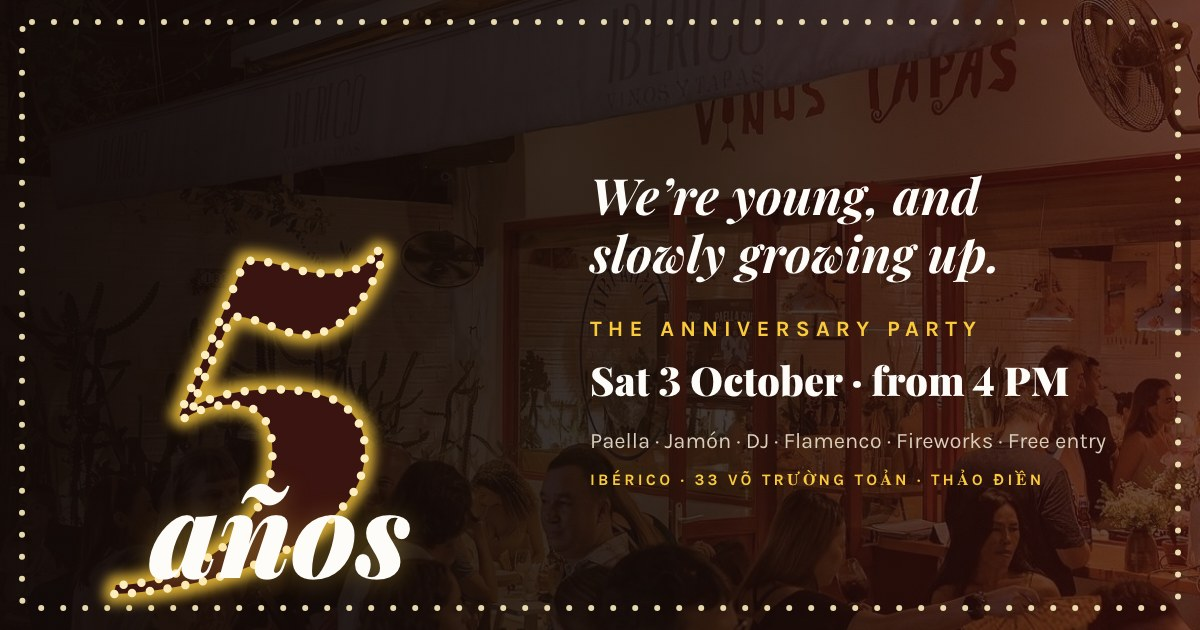
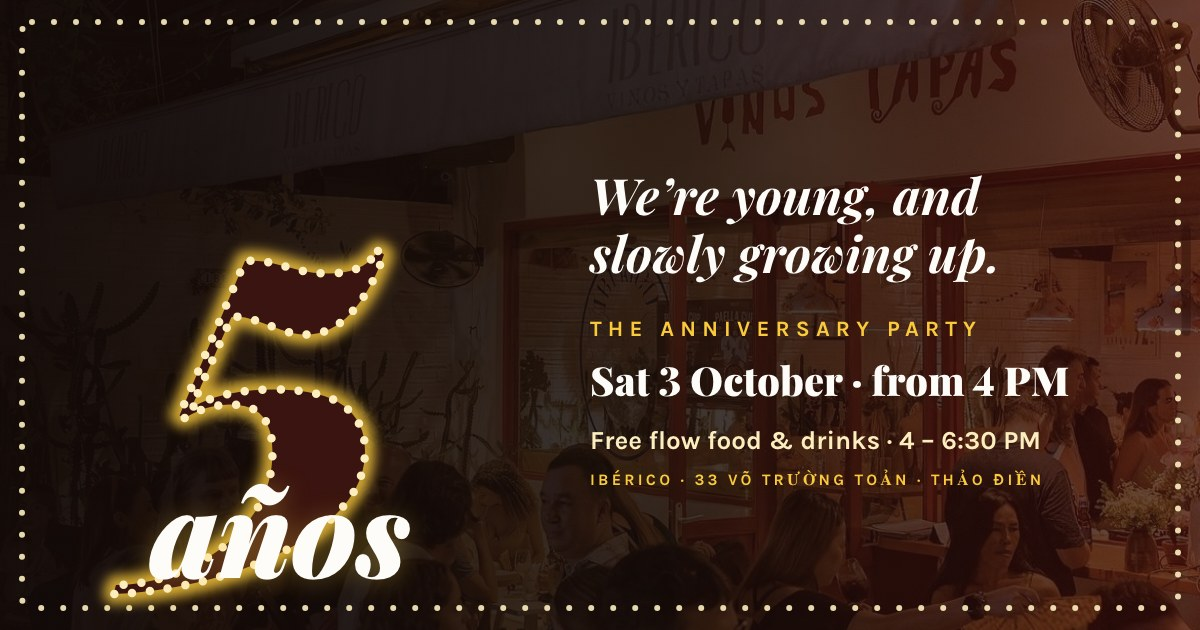
Anniversary: free flow food & drinks 4-6:30 PM replaces free entry

Changed region(s): [[0.4933, 0.6635, 0.925, 0.7238]]

diff --git a/src/lib/events.ts b/src/lib/events.ts
@@ -78,7 +78,7 @@ const ANNIVERSARY_5YR: SiteEvent = {
         "Five years in Thảo Điền — one big night. Paella cooked live, jamón carved by hand, a DJ till late, live flamenco, and fireworks after dark.",
       when: "Sat 3 Oct · from 4:00 PM",
       where: "IBÉRICO Thảo Điền · 33 Võ Trường Toản",
-      price: "Free entry · à la carte all night",
+      price: "Free flow food & drinks · 4–6:30 PM",
       cta: "Reserve a table",
       bookingNote: "Booking for the 5-Year Anniversary Party — Sat 3 Oct, from 4 PM",
     },
@@ -90,7 +90,7 @@ const ANNIVERSARY_5YR: SiteEvent = {
         "Năm năm ở Thảo Điền — một đêm thật đã. Paella nấu tại chỗ, jamón cắt tay, DJ tới khuya, flamenco sống, và pháo hoa khi trời tối.",
       when: "Thứ Bảy 3/10 · từ 16:00",
       where: "IBÉRICO Thảo Điền · 33 Võ Trường Toản",
-      price: "Vào cửa tự do · gọi món cả tối",
+      price: "Free flow đồ ăn & thức uống · 16:00–18:30",
       cta: "Đặt bàn",
       bookingNote: "Đặt bàn cho Tiệc Kỷ Niệm 5 Năm — Thứ Bảy 3/10, từ 16:00",
     },
